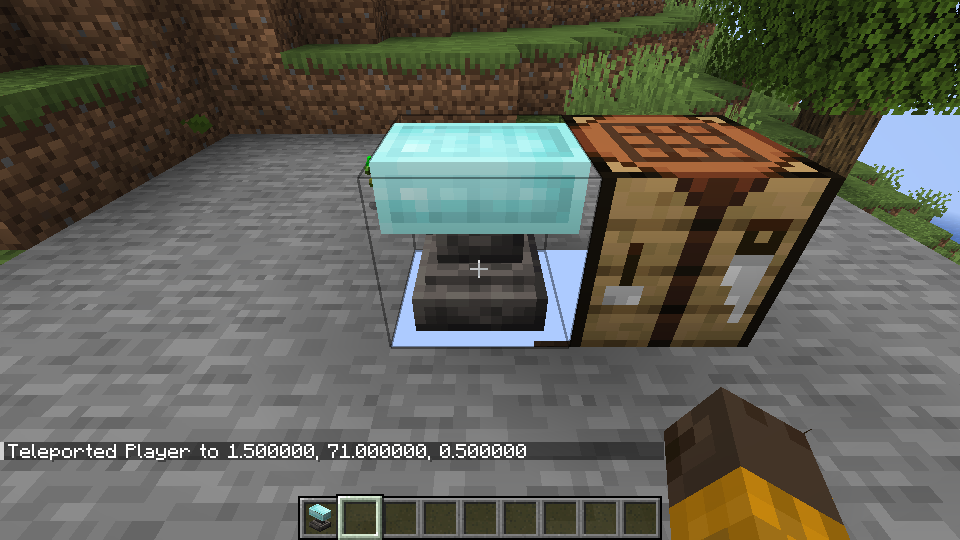
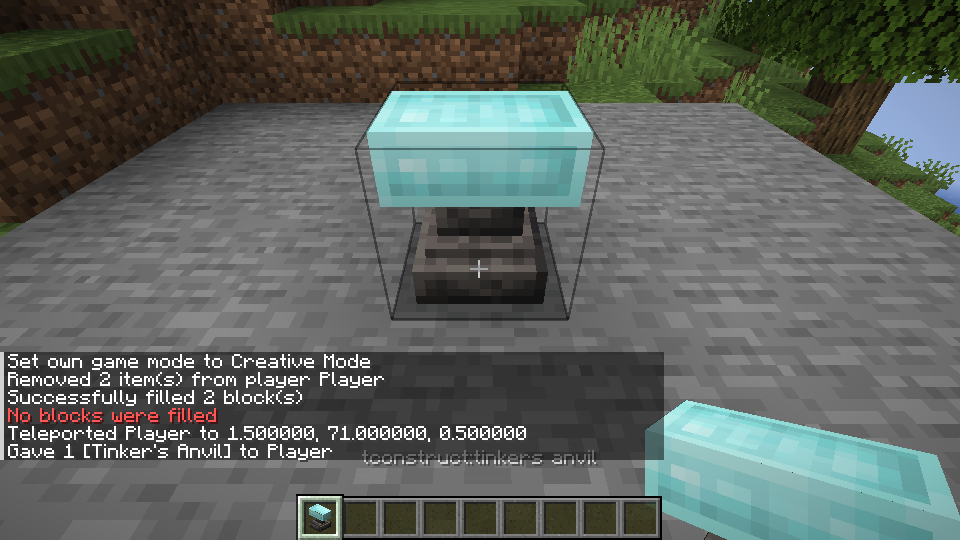
Illustrate tested anvil assembly and repair

diff --git a/tconstruct/docs/anvil-assembly.md b/tconstruct/docs/anvil-assembly.md
@@ -6,6 +6,8 @@
 
 Craft either Anvil with three alloy blocks across the top, one seared or scorched block in the center, and three matching-category blocks across the bottom. Matching alloy blocks give the Anvil their appearance; mixed alloys use the fallback appearance. Use seared blocks for the Tinker’s Anvil and scorched blocks for the Scorched Anvil. Supported alloy blocks include Slimesteel, Amethyst Bronze and Manyullyn; Netherite blocks also work.
 
+![A LAN guest assembling a Sledge Hammer](anvil-assembly-lan.png)
+
 Open the Anvil and choose a tool layout. Make its parts at a Part Builder, then place them in the displayed slots and take the result. Large tools such as the Sledge Hammer need four parts and require an Anvil. Place an existing tool in the tool slot to repair it or exchange a part; the Anvil also lets you name the resulting tool.
 
-The Anvil implementation is under review. Its GUI, recipes, server transactions, save and LAN behavior have not yet been verified in a game; do not treat this guide as a completed acceptance test. The current implementation records the alloy on crafted Anvils and carries it through the block entity and drop paths. Compatibility alloy blocks with matching material IDs can also be used. Alloy appearance, persistence, crafting and LAN synchronization still require game verification.
+A Linux test built and placed both Anvils, assembled a Sledge Hammer, repaired and renamed it using the fifth input, and checked the Station’s smaller layout. A Slimesteel Anvil retained its appearance through save/reload and its material when mined. A LAN guest saw the alloy, assembled a Sledge Hammer and exchanged a part. Matching compatibility alloy blocks were also checked; mixed compatibility materials were rejected. Windows and a complete survival playthrough remain untested.
